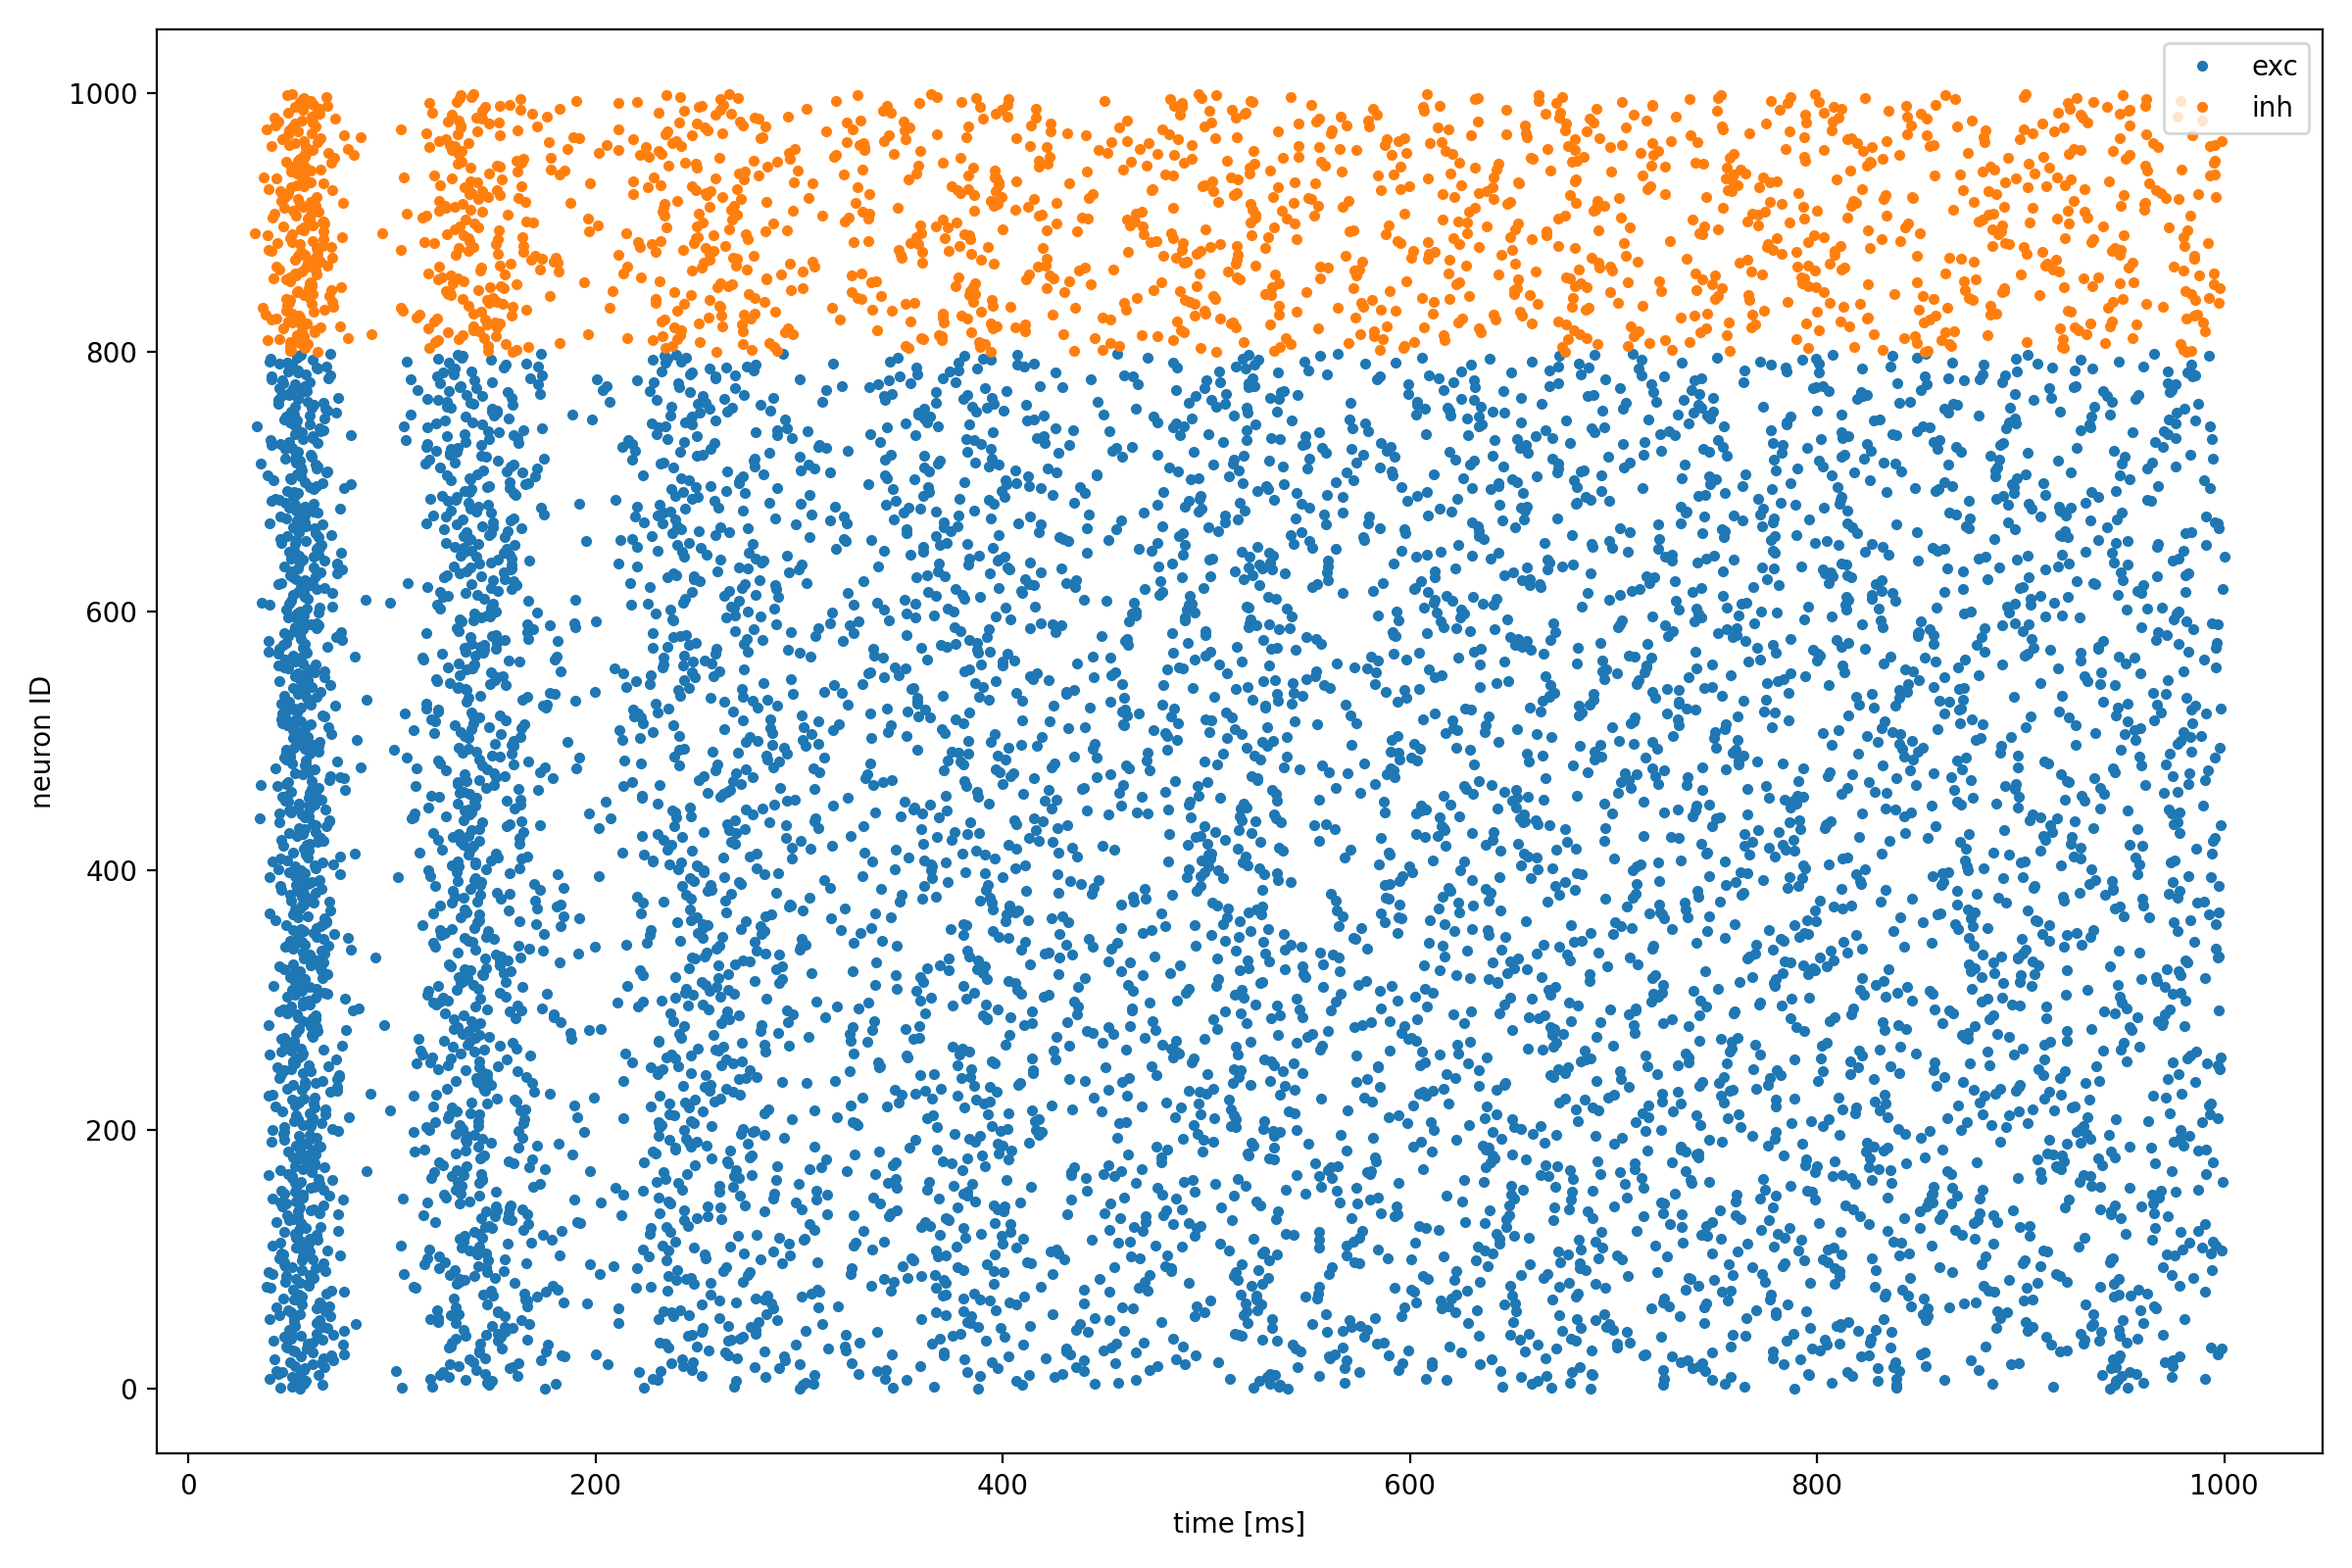
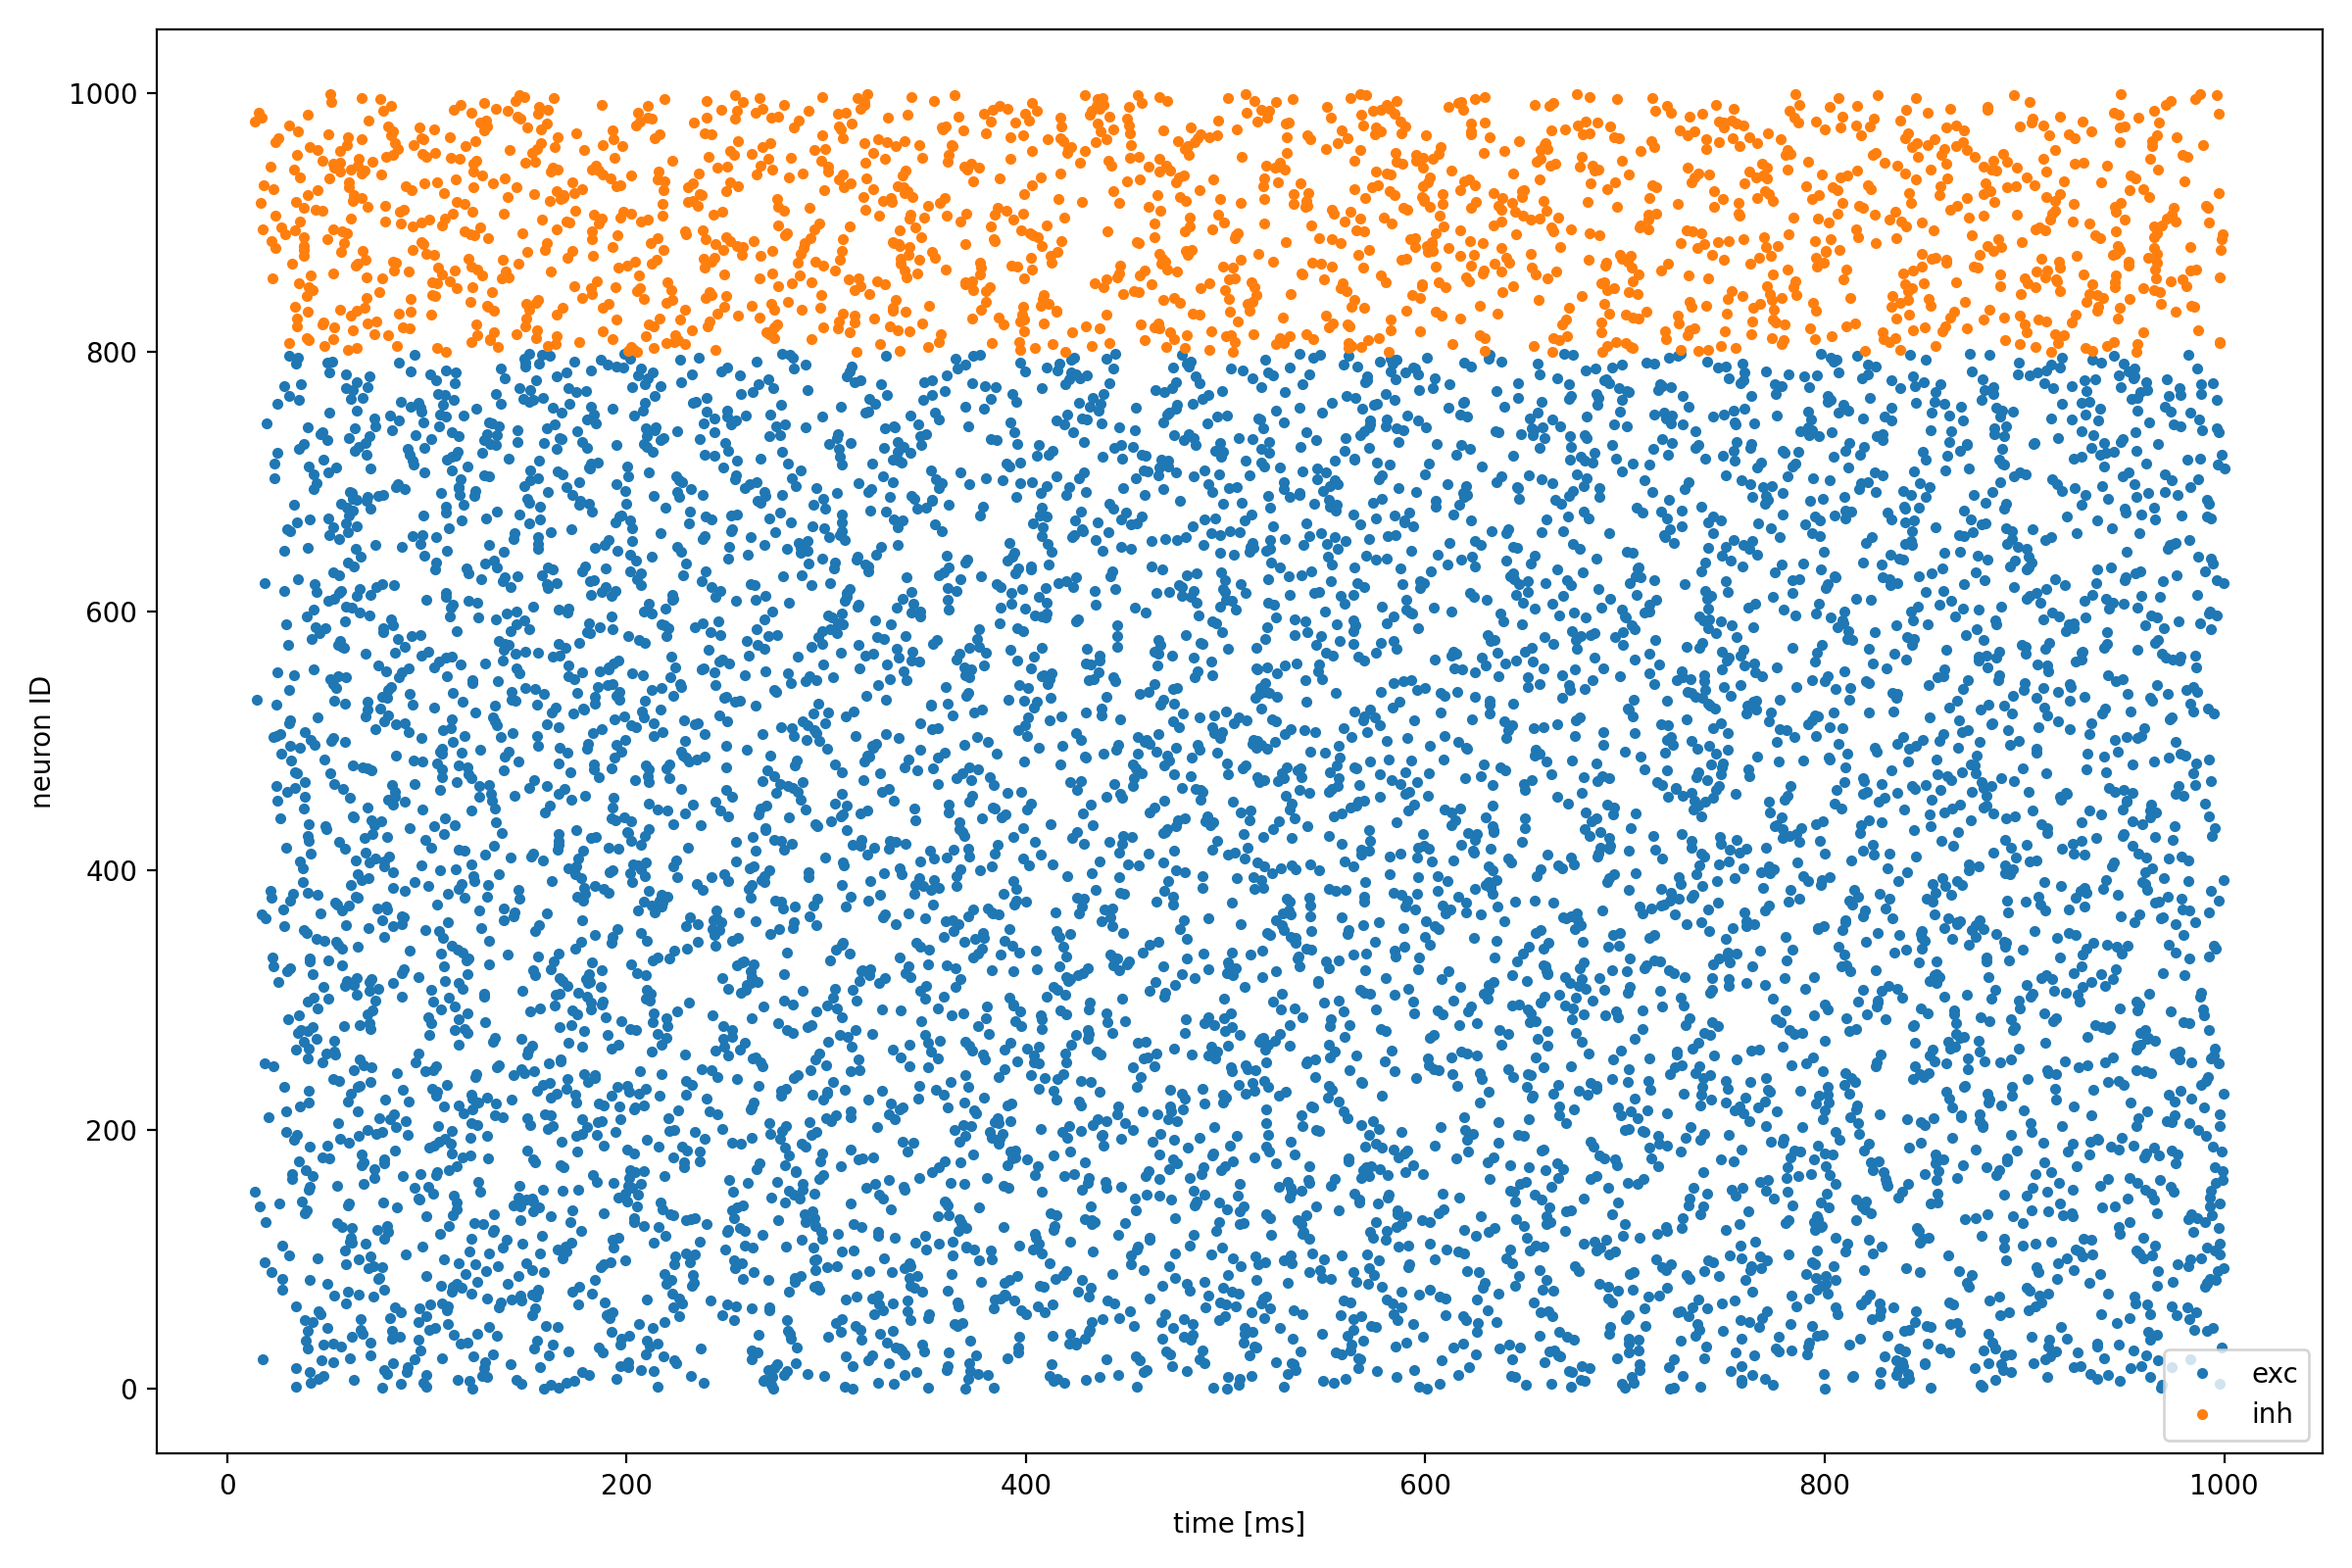
new results of brunel tests and the generated code

diff --git a/testing/brunel_testing/test_brunel_aeif_cond_alpha_builtin.py b/testing/brunel_testing/test_brunel_aeif_cond_alpha_builtin.py
@@ -14,15 +14,45 @@ def compute_cv(spike_train):
         return np.nan
     return std_isi / mean_isi
 
-def randomize_initial_v_m(neurons, e_l=-63.0, seed=1234):
+def randomize_initial_state_aeif(neurons, e_l=-63.0, seed=1234):
     rng = np.random.default_rng(seed)
-
     n = len(neurons)
+
+    # Do not set membrane potential too close to threshold
     v_init = rng.uniform(e_l - 2.0, e_l + 6.0, size=n)
+
+    # Initial state closer to ongoing background activity (very impo)
+    # Values deliberately chosen to be moderate so that no new initial burst occurs
+    g_ex_init = np.clip(
+        rng.normal(loc=3.0, scale=0.6, size=n),
+        0.0,
+        None,
+    )
+
+    g_in_init = np.clip(
+        rng.normal(loc=0.08, scale=0.03, size=n),
+        0.0,
+        None,
+    )
+
+    # Do not let adaptation current start at 0 everywhere
+    w_init = np.clip(
+        rng.normal(loc=30.0, scale=8.0, size=n),
+        0.0,
+        None,
+    )
 
     for i in range(n):
         gid = neurons[i]
-        ngpu.SetStatus([gid], {"V_m": float(v_init[i])})
+        ngpu.SetStatus(
+            [gid],
+            {
+                "V_m": float(v_init[i]),
+                "g_ex": float(g_ex_init[i]),
+                "g_in": float(g_in_init[i]),
+                "w": float(w_init[i]),
+            },
+        )
         
 def compute_cv_for_neurons(spike_trains):
     cvs = []
@@ -124,8 +154,8 @@ def main():
 
     sim_time = 1000.0
 
-    poiss_rate = 4800.0
-    poiss_weight = 0.48
+    poiss_rate = 200.0
+    poiss_weight = 10.2
     poiss_delay = 1.5
 
     neuron = ngpu.Create("aeif_cond_alpha", n_neurons)
@@ -159,7 +189,7 @@ def main():
     if filtered_params:
         ngpu.SetStatus(neuron, filtered_params)
 
-    randomize_initial_v_m(neuron, e_l=-63.0, seed=1234)
+    randomize_initial_state_aeif(neuron, e_l=-63.0, seed=1234)
     
     exc_conn_dict = {"rule": "fixed_indegree", "indegree": CE}
     exc_syn_dict = {"weight": Wex, "delay": 1.5, "receptor": 0}

diff --git a/testing/brunel_testing/test_brunel_aeif_cond_alpha_alt_neuron_nestml.py b/testing/brunel_testing/test_brunel_aeif_cond_alpha_alt_neuron_nestml.py
@@ -151,8 +151,8 @@ def main():
 
     sim_time = 1000.0
 
-    poiss_rate = 4800.0
-    poiss_weight = 0.48
+    poiss_rate = 200.0
+    poiss_weight = 8.0
     poiss_delay = 1.5
 
     tau_syn_exc = 0.5
